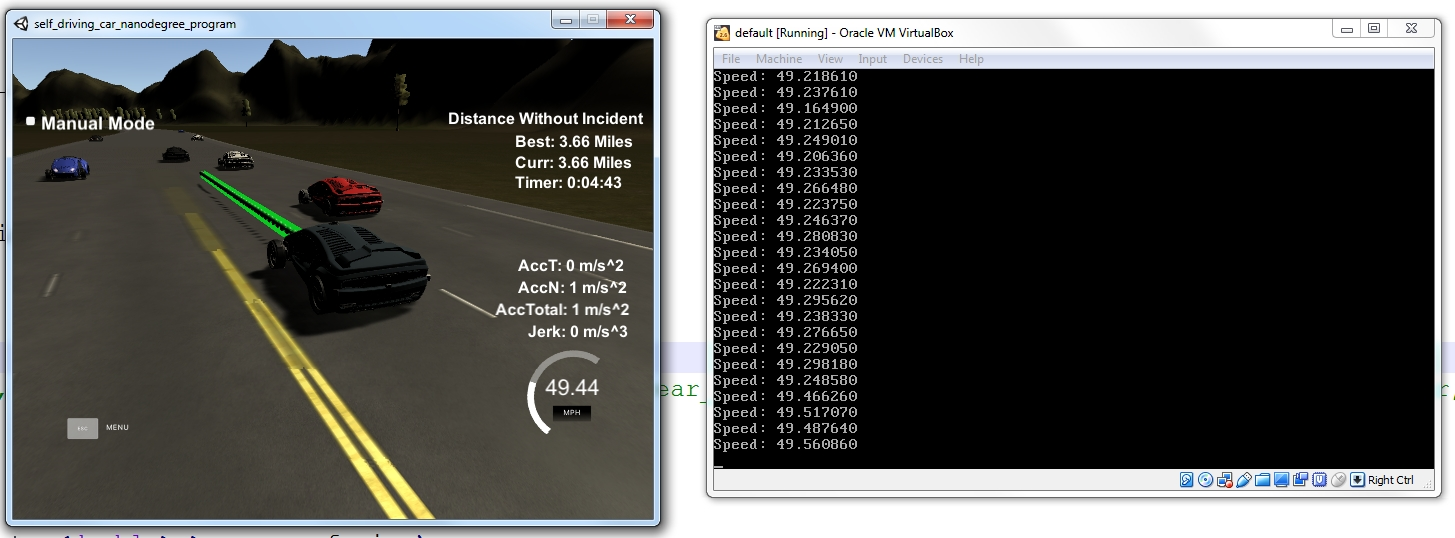
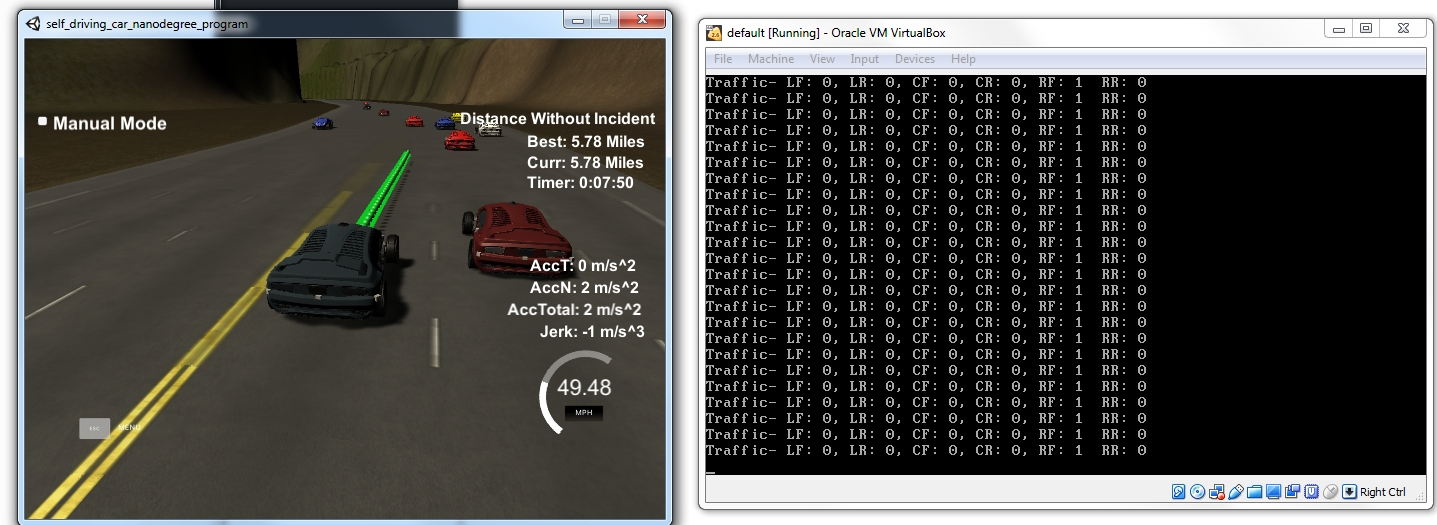
Projecting car paths ahead

diff --git a/src/vehicle.cpp b/src/vehicle.cpp
@@ -47,7 +47,7 @@ Vehicle::Vehicle(int lane, double max_ref_vel){
 
 Vehicle::~Vehicle(){}
 
-void Vehicle::get_surrounding_vehicles(std::vector< std::vector<double> > sensor_fusion) {
+void Vehicle::get_surrounding_vehicles(std::vector< std::vector<double> > sensor_fusion, int prev_path_size, double end_path_s) {
 	// Assume limits for max and min distances in [m] for obstacle cars in all lanes
 	double cur_min_front_s		= ROAD_LENGTH;
 	double cur_max_rear_s		= -1;
@@ -60,8 +60,11 @@ void Vehicle::get_surrounding_vehicles(std::vector< std::vector<double> > sensor
 	double obstacle_d	= 0;
 	double obstacle_s	= 0;
 	// Temporary variables to store speeds of surrounding cars
-	double vx = 0;
-	double vy = 0;
+	double obstacle_vx 		= 0;
+	double obstacle_vy 		= 0;
+	double obstacle_speed 	= 0;
+	// Saves future Frenet path position of car
+	double car_future_s;
 	
 	// Assume no immediate obstacles at start of check
 	cur_front_car		= false;
@@ -79,19 +82,26 @@ void Vehicle::get_surrounding_vehicles(std::vector< std::vector<double> > sensor
 	right_front_id	= -1;
 	right_rear_id	= -1;
 	
+	// If previous path points exist, project car path position at end of previous path
+	if(prev_path_size > 0){
+		car_future_s = end_path_s;
+	}
+	// Otherwise car future path position is current car.s
+	else{
+		car_future_s = s;
+	}
 	// Check for closest surrounding vehicles in all lanes
 	for (int i = 0; i < sensor_fusion.size(); i++){
 		obstacle_d = sensor_fusion[i][6];
 		// Check for front and rear vehicle in same lane
 		if ((obstacle_d > lane_width*lane) && (obstacle_d < lane_width*(lane+1))){
-			obstacle_s = sensor_fusion[i][5];
 			// Check if this is closest front car
 			if((obstacle_s > s) && (obstacle_s < cur_min_front_s)){
 				cur_min_front_s = obstacle_s;
 				cur_front_id    = i;
 			}
 			// Check if this is closest rear car
-			else if((obstacle_s < s) && (obstacle_s > cur_max_rear_s)){
+			else if((obstacle_s < s) && (obstacle_s > cur_max_rear_s )){
 				cur_max_rear_s = obstacle_s;
 				cur_rear_id 	= i;
 			}
@@ -134,33 +144,88 @@ void Vehicle::get_surrounding_vehicles(std::vector< std::vector<double> > sensor
 	}
 	
 	// Gap between obstacle vehicles and ego vehicle is too small
-	if((cur_front_id != -1) && (sensor_fusion[cur_front_id][5] - s) < 1.5*cp_inc){
-		// Set flag for front car
-		cur_front_car = true;
-		vx = sensor_fusion[cur_front_id][3];
-		vy = sensor_fusion[cur_front_id][4];
-		cur_front_speed = sqrt(vx*vx + vy*vy);
-	}
-	if((cur_rear_id != -1) && (s - sensor_fusion[cur_rear_id][5]) < 0.2*cp_inc){
-		// Set flag for rear car
-		cur_rear_car = true;
-	}
-	if((left_front_id != -1) && (sensor_fusion[left_front_id][5] - s) < 1.5*cp_inc){
-		// Set flag for front car
-		left_front_car = true;
-	}
-	if((left_rear_id != -1) && (s - sensor_fusion[left_rear_id][5]) < 0.2*cp_inc){
-		// Set flag for rear car
-		left_rear_car = true;
-	}
-	if((right_front_id != -1) && (sensor_fusion[right_front_id][5] - s) < 1.5*cp_inc){
-		// Set flag for front car
-		right_front_car = true;
+	if(cur_front_id != -1){
+		// Get obstacle speed
+		obstacle_vx = sensor_fusion[cur_front_id][3];
+		obstacle_vy = sensor_fusion[cur_front_id][4];
+		obstacle_speed = sqrt(obstacle_vx*obstacle_vx + obstacle_vy*obstacle_vy);
+		// Project obstacle position
+		obstacle_s = sensor_fusion[cur_front_id][5];
+		obstacle_s += (double)prev_path_size*Ts*obstacle_speed;
+		if((obstacle_s - car_future_s) < 1.5*cp_inc){
+			// Set flag for front car
+			cur_front_car = true;
+		}
 	}
 	
-	if( (right_rear_id != -1) && (s - sensor_fusion[right_rear_id][5]) < 0.2*cp_inc){
-		// Set flag for rear car
-		right_rear_car = true;
+	if(cur_rear_id != -1){
+		// Get obstacle speed
+		obstacle_vx = sensor_fusion[cur_rear_id][3];
+		obstacle_vy = sensor_fusion[cur_rear_id][4];
+		obstacle_speed = sqrt(obstacle_vx*obstacle_vx + obstacle_vy*obstacle_vy);
+		// Project obstacle position
+		obstacle_s = sensor_fusion[cur_rear_id][5];
+		obstacle_s += (double)prev_path_size*Ts*obstacle_speed;
+		if((car_future_s - obstacle_s) < 0.2*cp_inc){
+			// Set flag for rear car
+			cur_rear_car = true;
+		}
+	}
+	
+	if(left_front_id != -1){
+		// Get obstacle speed
+		obstacle_vx = sensor_fusion[left_front_id][3];
+		obstacle_vy = sensor_fusion[left_front_id][4];
+		obstacle_speed = sqrt(obstacle_vx*obstacle_vx + obstacle_vy*obstacle_vy);
+		// Project obstacle position
+		obstacle_s = sensor_fusion[left_front_id][5];
+		obstacle_s += (double)prev_path_size*Ts*obstacle_speed;
+		if((obstacle_s - car_future_s) < 1.5*cp_inc){
+			// Set flag for left front car
+			left_front_car = true;
+		}
+	}
+	
+	if(left_rear_id != -1){
+		// Get obstacle speed
+		obstacle_vx = sensor_fusion[left_rear_id][3];
+		obstacle_vy = sensor_fusion[left_rear_id][4];
+		obstacle_speed = sqrt(obstacle_vx*obstacle_vx + obstacle_vy*obstacle_vy);
+		// Project obstacle position
+		obstacle_s = sensor_fusion[left_rear_id][5];
+		obstacle_s += (double)prev_path_size*Ts*obstacle_speed;
+		if((car_future_s - obstacle_s) < 0.2*cp_inc){
+			// Set flag for left rear car
+			left_rear_car = true;
+		}
+	}
+	
+	if(right_front_id != -1){
+		// Get obstacle speed
+		obstacle_vx = sensor_fusion[right_front_id][3];
+		obstacle_vy = sensor_fusion[right_front_id][4];
+		obstacle_speed = sqrt(obstacle_vx*obstacle_vx + obstacle_vy*obstacle_vy);
+		// Project obstacle position
+		obstacle_s = sensor_fusion[right_front_id][5];
+		obstacle_s += (double)prev_path_size*Ts*obstacle_speed;
+		if((obstacle_s - car_future_s) < 1.5*cp_inc){
+			// Set flag for right front car
+			right_front_car = true;
+		}
+	}
+	
+	if(right_rear_id != -1){
+		// Get obstacle speed
+		obstacle_vx = sensor_fusion[right_rear_id][3];
+		obstacle_vy = sensor_fusion[right_rear_id][4];
+		obstacle_speed = sqrt(obstacle_vx*obstacle_vx + obstacle_vy*obstacle_vy);
+		// Project obstacle position
+		obstacle_s = sensor_fusion[right_rear_id][5];
+		obstacle_s += (double)prev_path_size*Ts*obstacle_speed;
+		if((car_future_s - obstacle_s) < 0.2*cp_inc){
+			// Set flag for rear car
+			right_rear_car = true;
+		}
 	}
 	
 	printf("Traffic- LF: %d, LR: %d, CF: %d, CR: %d, RF: %d  RR: %d\n", left_front_car , left_rear_car, cur_front_car, cur_rear_car, right_front_car, right_rear_car);
@@ -207,9 +272,6 @@ void Vehicle::state_KL(std::vector< std::vector<double> > sensor_fusion){
 	}	
 	// Gap between front vehicle and ego vehicle is large enough to accelerate
 	else{
-		//double vx = sensor_fusion[cur_front_id][3];
-		//double vy = sensor_fusion[cur_front_id][4];
-		//double front_speed = sqrt(vx*vx + vy*vy);
 		if(ref_vel < max_ref_vel){
 			ref_vel += ref_vel_delta;
 		}

diff --git a/src/vehicle.h b/src/vehicle.h
@@ -91,7 +91,7 @@ class Vehicle{
 		Vehicle(int lane, double max_ref_vel);
 		//Destructor
 		virtual ~Vehicle();
-		void get_surrounding_vehicles(std::vector< std::vector<double> > sensor_fusion);
+		void get_surrounding_vehicles(std::vector< std::vector<double> > sensor_fusion, int prev_path_size, double end_path_s);
 		void choose_next_state(std::vector< std::vector<double> > sensor_fusion);
 		void state_KL(std::vector< std::vector<double> > sensor_fusion);
 		void state_PLCL(std::vector< std::vector<double> > sensor_fusion);

diff --git a/src/main.cpp b/src/main.cpp
@@ -78,7 +78,7 @@ int main() {
 			vector<double> next_y_vals;
 			
 			// Get environment around ego vehicle
-			car.get_surrounding_vehicles(sensor_fusion);
+			car.get_surrounding_vehicles(sensor_fusion, previous_path_x.size(), end_path_s);
 			// Decide next state, new lane, and new ref_vel for ego vehicle
 			car.choose_next_state(sensor_fusion);
 			// Generate reference trajectory for ego vehicle to follow
